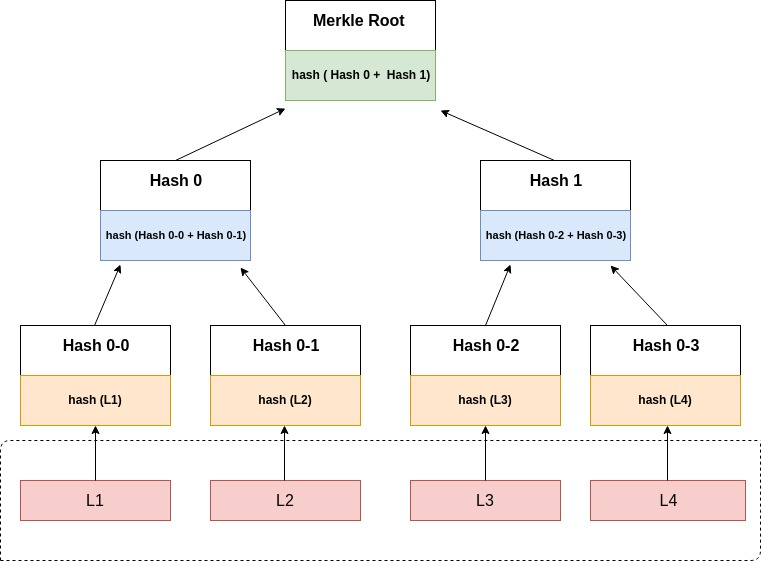
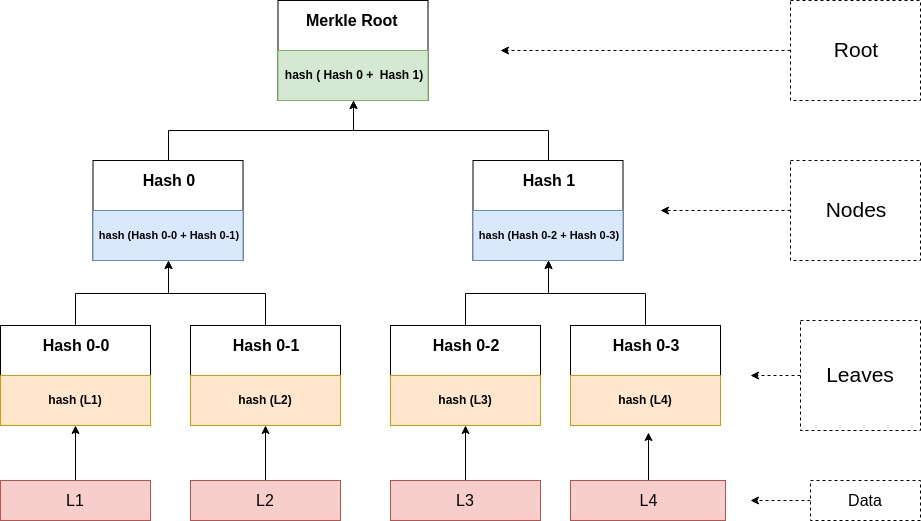
Add more diagrams, update README.md

diff --git a/merkle/trie.py b/merkle/trie.py
@@ -4,9 +4,10 @@ import collections
 import abc
 import six
 import functools
+import io
 
-from anytree import Node, RenderTree
-from anytree.exporter import DotExporter
+from anytree import AnyNode, RenderTree
+from anytree.exporter import DotExporter, JsonExporter
 
 LEFT, RIGHT, ROOT = tuple(range(3))
 
@@ -38,21 +39,25 @@ def _get_printable_tree(tree):
   root = tree
   if isinstance(tree, MerkleTree):
     root = tree.root
-  parent = Node(root.hash)
+  parent = AnyNode(name=root.hash)
   queue = [(root, parent)]
   while len(queue) > 0:
     node, par = queue.pop()
     left, right = node.left, node.right
     if left is not None:
-      queue.append((left, Node(left.hash, parent=par)))
+      queue.append((left, AnyNode(name=left.hash, parent=par)))
     if right is not None:
-      queue.append((right, Node(right.hash, parent=par)))
+      queue.append((right, AnyNode(name=right.hash, parent=par)))
   return parent
 
 
-def export(tree, filename, ext='png'):
+def export(tree, filename, ext='json', **kwargs):
   parent = _get_printable_tree(tree)
-  DotExporter(parent).to_picture(f'{filename}.{ext}')
+  if ext == 'json':
+    with io.open(f'{filename}.json', mode='w+') as fp:
+      JsonExporter(**kwargs).write(parent, fp)
+  else:
+    DotExporter(parent, **kwargs).to_picture(f'{filename}.{ext}')
 
 
 def beautify(tree):

diff --git a/README.md b/README.md
@@ -1,20 +1,25 @@
 # merkle-trees
 
 
-## Diagrams
+### Merkle Tree Diagram
 
 <img src="https://github.com/vpaliy/merkle-trees/blob/master/ext/general.jpg"  />
+
+
+### Merkle Audit Proof Diagram
+
+<img src="https://github.com/vpaliy/merkle-trees/blob/master/ext/proof.jpg"  />
 
 
 ## Usage
 
 ```python
  from merkle import MerkleTree, beautify
- 
- 
+
+
  transactions = get_transactions(user) # random data
  tree = MerkleTree(transactions)
- 
+
  beautify(tree) # print the tree in the terminal
 ```
 
@@ -43,12 +48,12 @@ You can also export the output above as an image. This is how you'd do it:
 
 ```python
  from merkle import MerkleTree, export
- 
- 
+
+
  transactions = get_transactions(user) # random data
  tree = MerkleTree(transactions)
- 
- export(tree, filename='transactions', ext='jpg') 
+
+ export(tree, filename='transactions', ext='jpg')
 ```
 
 Default extension is always `.png`. You can also specify an absolute path.
